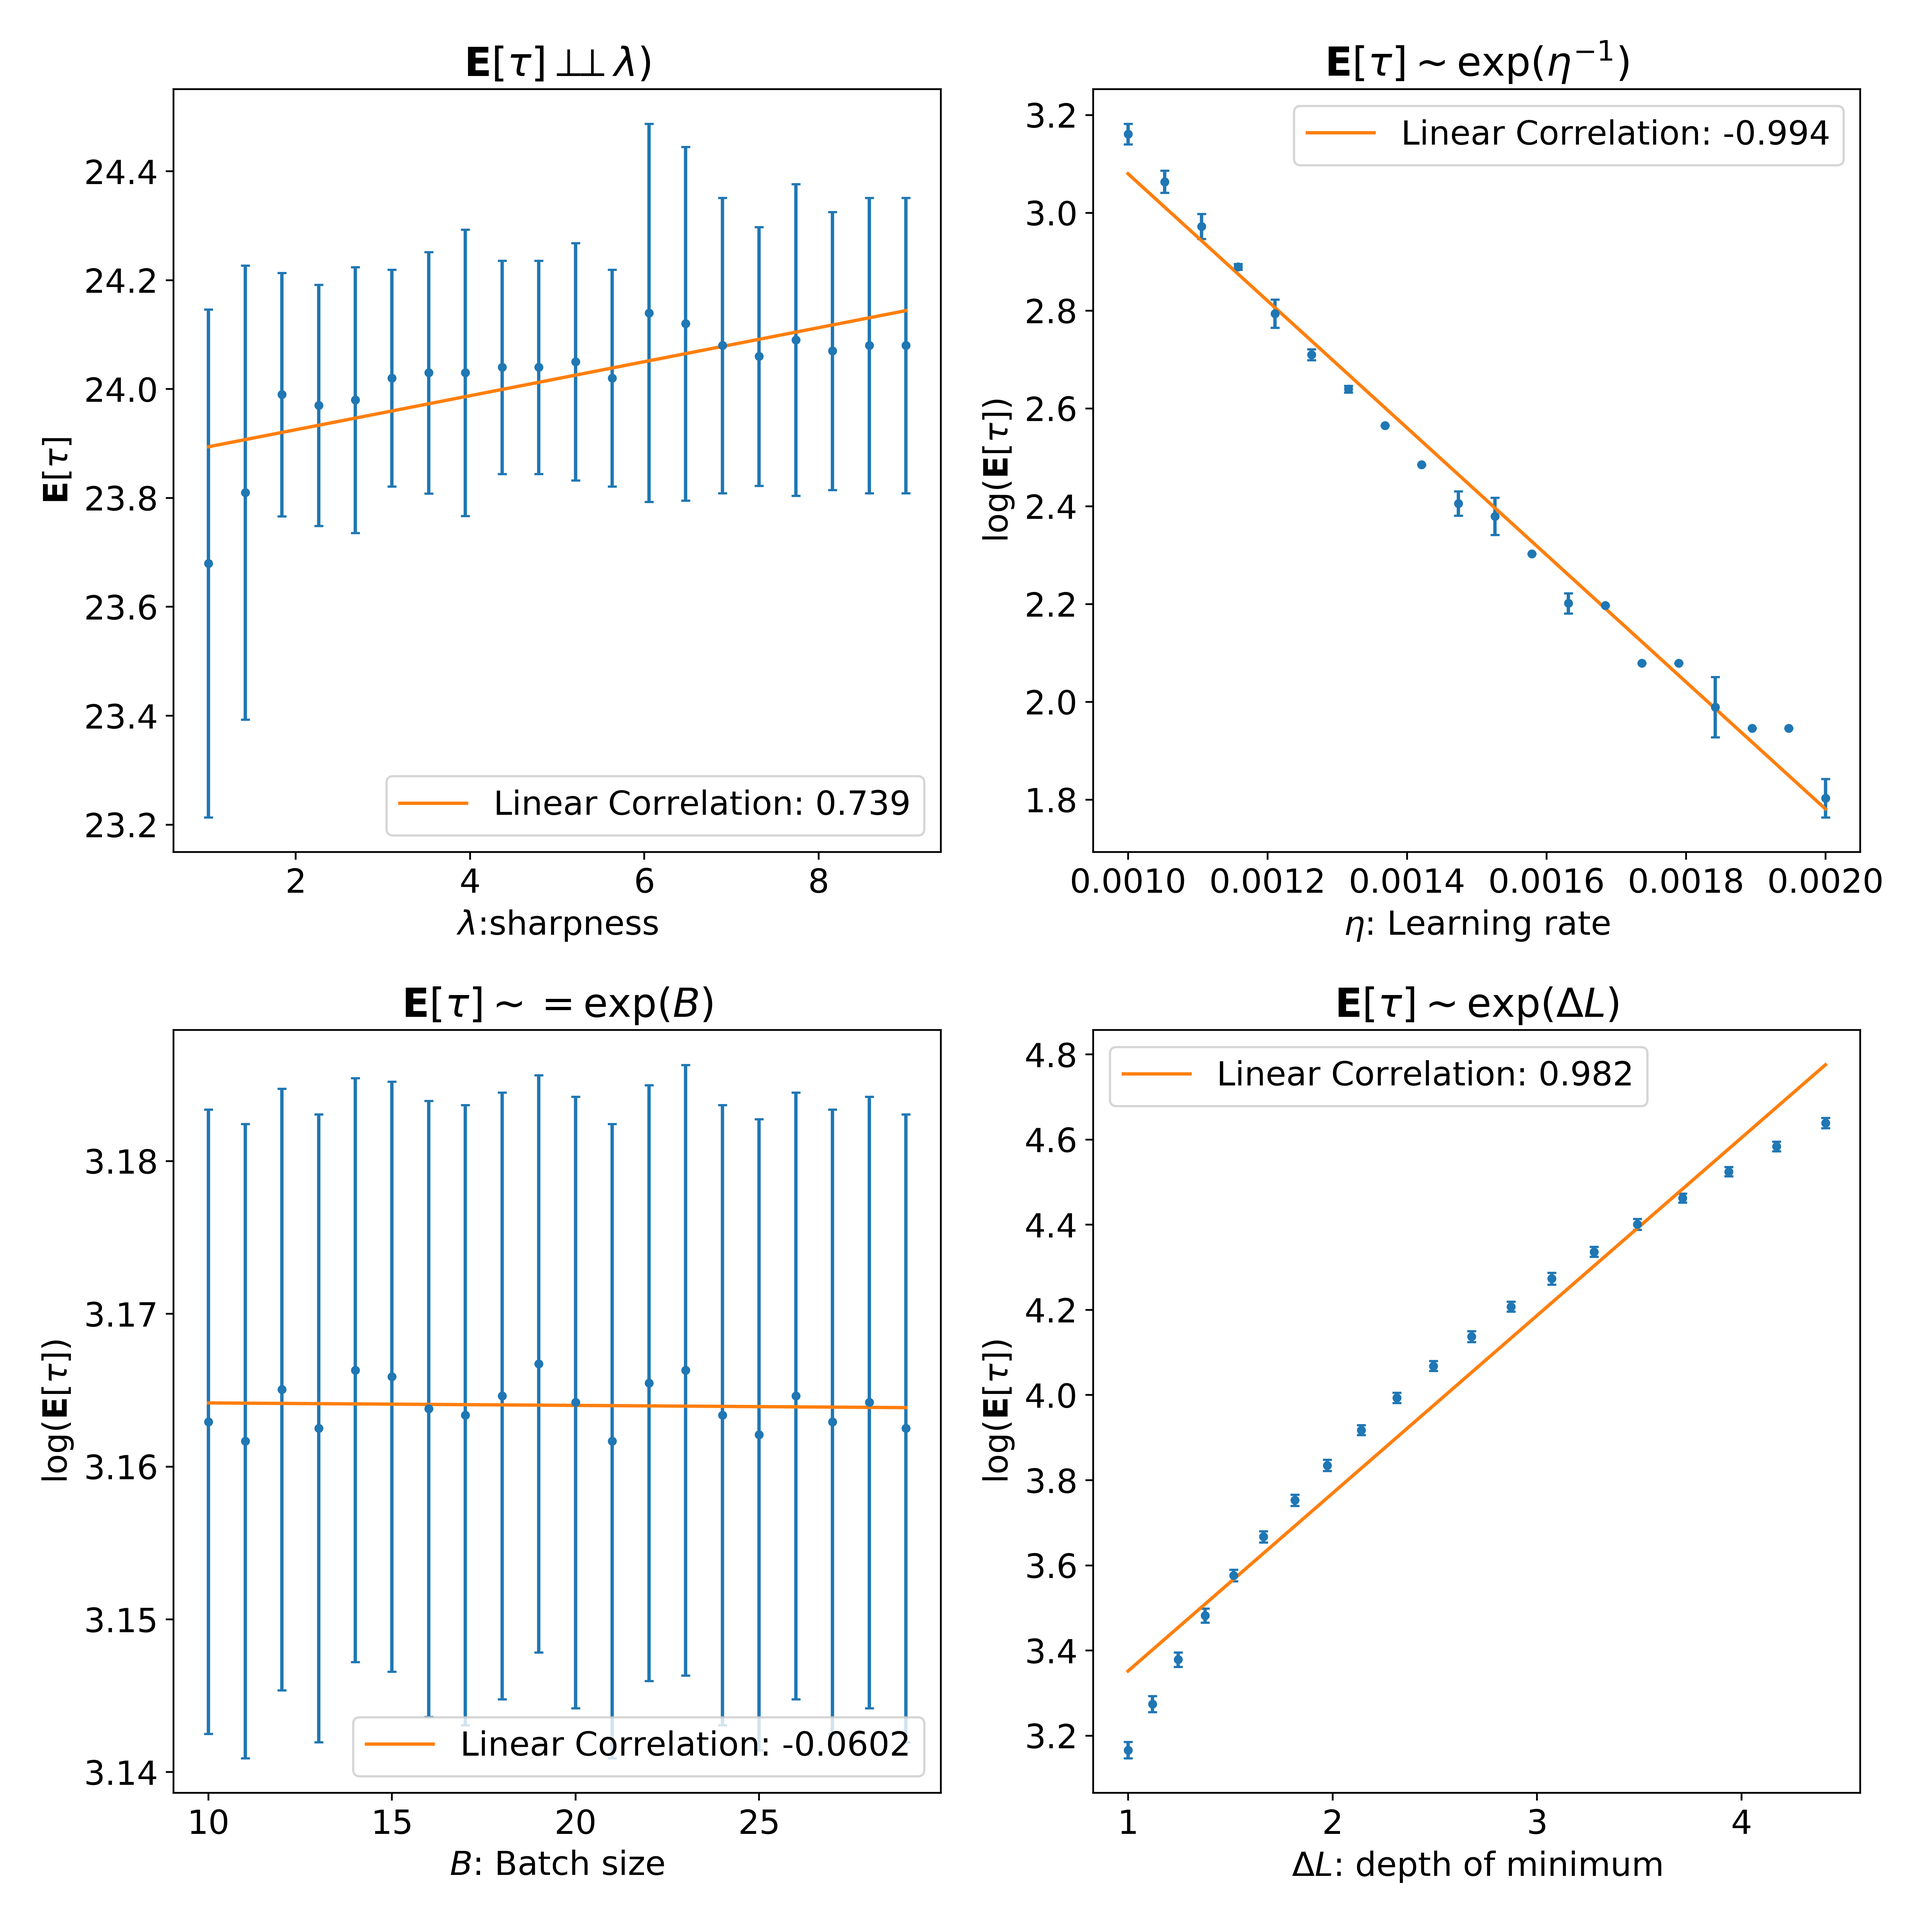
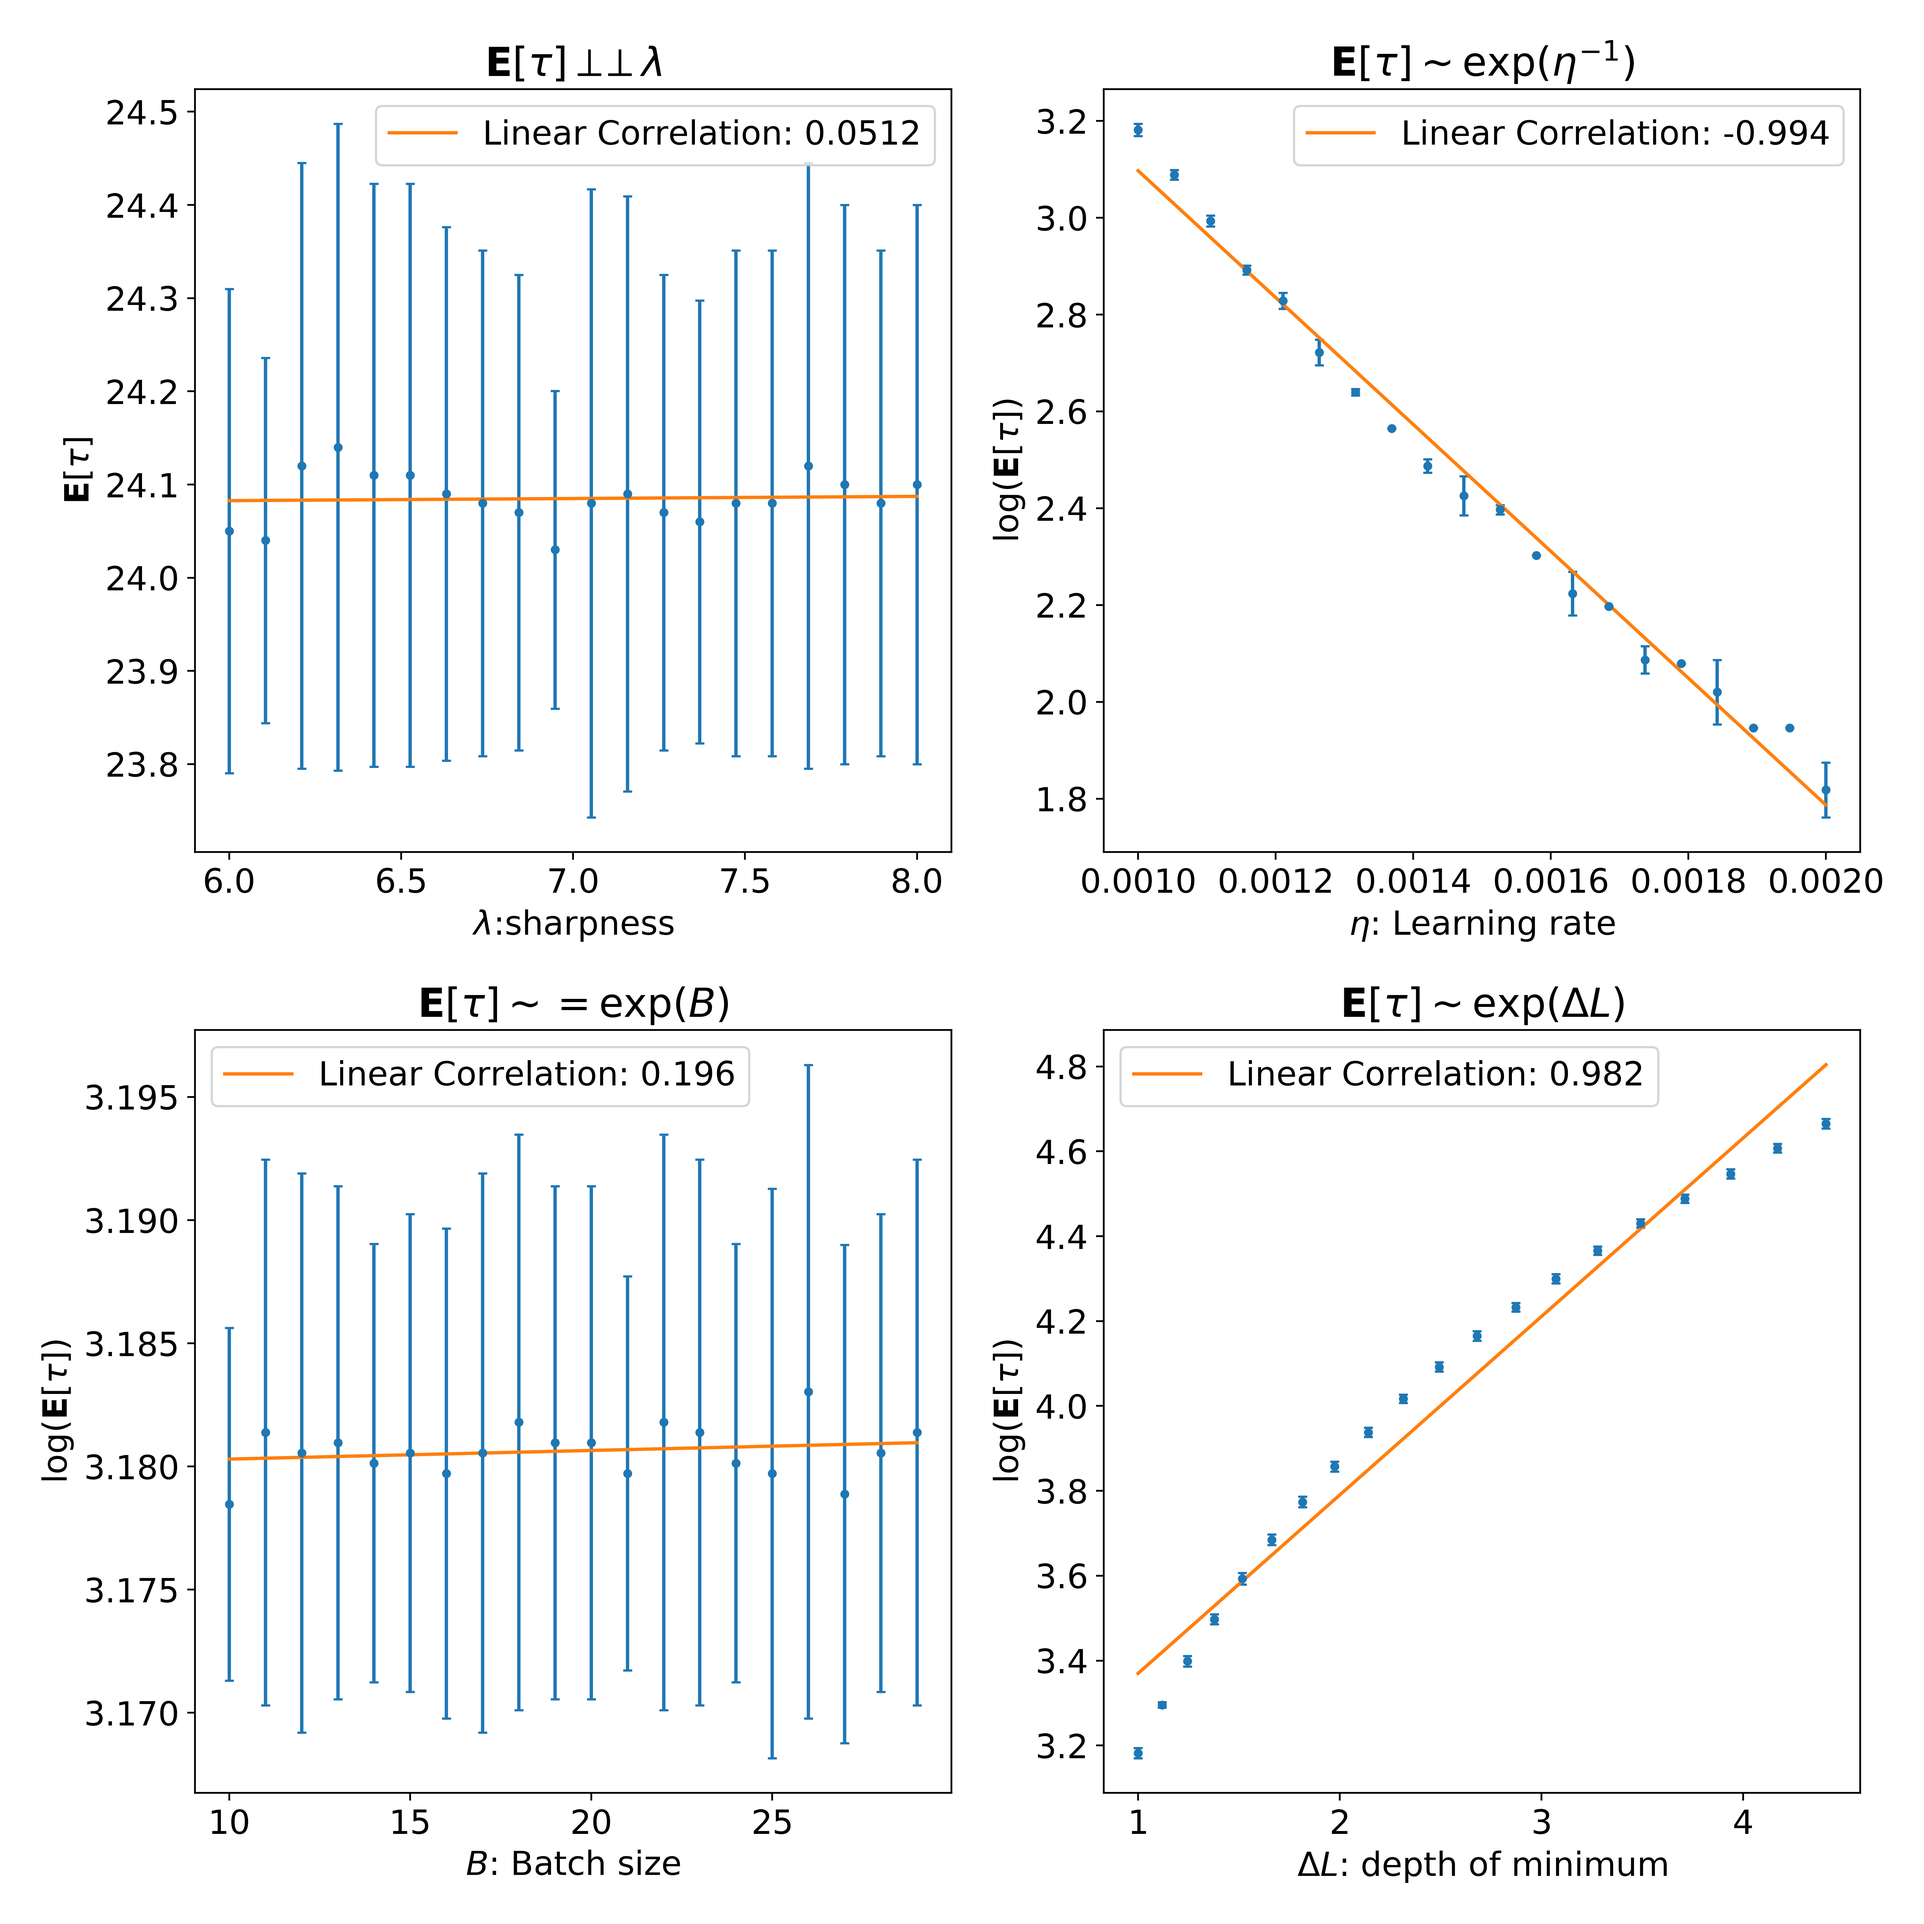
update

diff --git a/MLP_SGLD/draw.py b/MLP_SGLD/draw.py
@@ -19,7 +19,7 @@ def draw(sharpness_results, lr_results, batch_size_results, r_results):
     ax1[0].errorbar(x_1, y_1, yerr=std, fmt='.', capsize=2) 
     ax1[0].plot(x_1, m_1*x_1 + c_1)
     ax1[0].legend([f'Linear Correlation: {coeff_1:.3g}'])
-    ax1[0].set_title('$\mathbf{E}[\\tau] \perp \!\!\! \perp \lambda)$')
+    ax1[0].set_title('$\mathbf{E}[\\tau] \perp \!\! \perp \lambda$')
     # Learning rate
     (x, y, std, log_std, _) = lr_results
     x_1 = x
